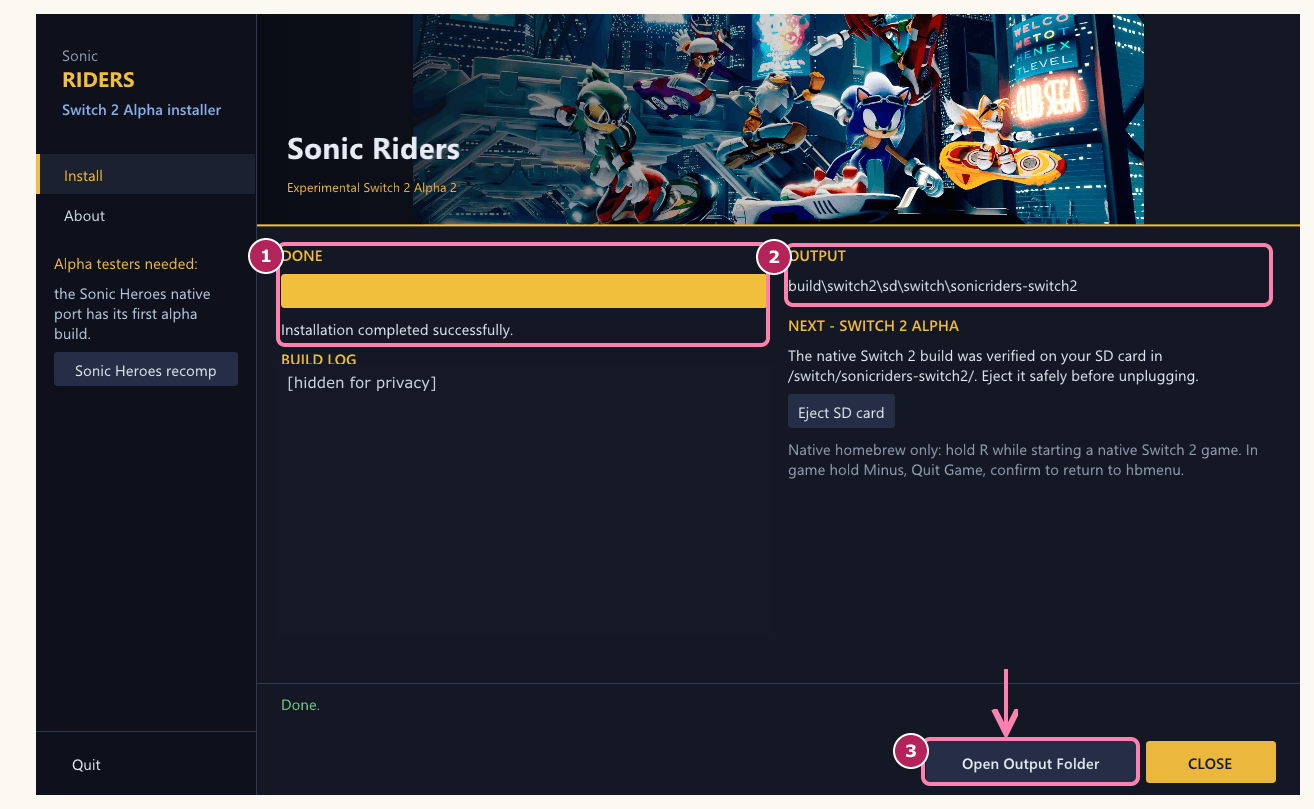
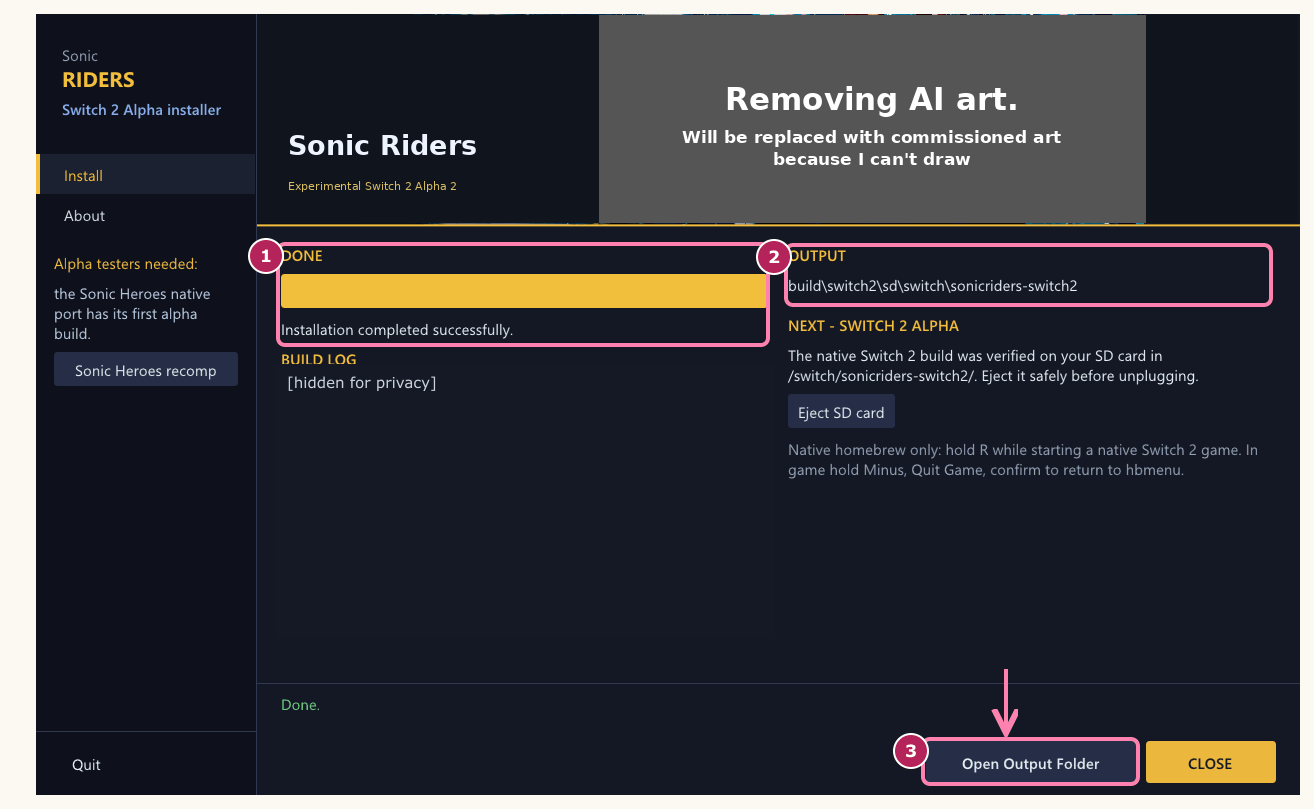
Replace generated artwork with commissioned-art placeholders

Changed region(s): [[0.2184, 0.0, 0.8737, 0.2781]]

diff --git a/riders-plus.html b/riders-plus.html
@@ -29,7 +29,7 @@
 <header class="topbar">
   <div class="topbar-in">
     <a class="brand" href="./" aria-label="Riders Plus home">
-      <img class="brand-logo" src="assets/img/logo-sm.webp" width="240" height="147" alt="Riders Plus">
+      <img class="brand-logo" src="assets/img/logo-sm.webp" width="240" height="147" alt="">
       <span class="brand-tag">Sonic Riders,<br>recompiled</span>
     </a>
     <nav class="nav" aria-label="Main">
@@ -55,7 +55,7 @@
 <div class="wrap">
   <figure class="reveal" style="margin:0"><img src="assets/img/riders-plus/banner.jpg" width="1600" height="900" fetchpriority="high"
     style="clip-path:polygon(0 0,100% 0,100% calc(100% - 34px),calc(100% - 34px) 100%,0 100%);box-shadow:0 0 0 1px rgba(255,210,63,.45)"
-    alt="Riders Plus: Break the limits. Sonic and Super Sonic on Extreme Gear in Metal City, with 999 rings and a Lv. 5 badge."></figure>
+    alt="Removing AI art. Will be replaced with commissioned art because I can't draw"></figure>
 </div>
 
 <section class="section">
@@ -143,7 +143,7 @@
   </div>
   <figure class="reveal" style="margin:22px 0 0"><img src="assets/img/riders-plus/super-sonic-banner.jpg" width="1983" height="793" loading="lazy"
     style="width:100%;height:auto;clip-path:polygon(0 0,100% 0,100% calc(100% - 34px),calc(100% - 34px) 100%,0 100%);box-shadow:0 0 0 1px rgba(255,210,63,.45)"
-    alt="Riders Plus: Super Sonic, supercharged. Super Sonic on a gold board racing through a night city, gold rings streaming behind him."></figure>
+    alt="Removing AI art. Will be replaced with commissioned art because I can't draw"></figure>
   <div class="two-col" style="margin-top:22px">
     <div class="panel reveal"><h3>New in v0.9.0</h3>
       <ul class="muted">
@@ -185,7 +185,7 @@
 <footer class="footer">
   <div class="footer-in">
     <div class="footer-brand">
-      <img class="footer-logo" src="assets/img/logo-sm.webp" width="240" height="147" alt="Riders Plus" loading="lazy">
+      <img class="footer-logo" src="assets/img/logo-sm.webp" width="240" height="147" alt="Removing AI art. Will be replaced with commissioned art because I can't draw" loading="lazy">
       <p class="muted">An unofficial fan project. Not affiliated with, endorsed or sponsored by SEGA or Nintendo.
         Sonic Riders is © SEGA. No game files are included or downloaded: you build the game from your own disc.</p>
     </div>

diff --git a/index.html b/index.html
@@ -29,7 +29,7 @@
 <header class="topbar">
   <div class="topbar-in">
     <a class="brand" href="./" aria-label="Riders Plus home">
-      <img class="brand-logo" src="assets/img/logo-sm.webp" width="240" height="147" alt="Riders Plus">
+      <img class="brand-logo" src="assets/img/logo-sm.webp" width="240" height="147" alt="">
       <span class="brand-tag">Sonic Riders,<br>recompiled</span>
     </a>
     <nav class="nav" aria-label="Main">
@@ -49,7 +49,7 @@
   <div class="hero-copy">
     <div class="speedlines" aria-hidden="true"><i></i><i></i><i></i><i></i></div>
     <img class="hero-logo" src="assets/img/logo.webp" width="880" height="539" fetchpriority="high"
-      alt="Riders Plus logo: RIDERS in yellow and PLUS in white, with Sonic's head and a golden swoosh.">
+      alt="Removing AI art. Will be replaced with commissioned art because I can't draw">
     <div class="hero-tags">
       <span class="chip chip-alpha">Now on Switch 2 · alpha</span>
       <span class="chip chip-stable">Stable <span data-latest="stable">v0.9.0</span></span>
@@ -184,7 +184,7 @@
 <section class="section" id="riders-plus">
   <div class="rp-teaser">
     <figure class="reveal" style="margin:0"><img class="banner" src="assets/img/riders-plus/banner.jpg" width="1600" height="900" loading="lazy"
-      alt="Riders Plus: Break the limits. Sonic and Super Sonic on Extreme Gear in Metal City, with 999 rings and a Lv. 5 badge."></figure>
+      alt="Removing AI art. Will be replaced with commissioned art because I can't draw"></figure>
     <div class="reveal">
       <div class="sec-head" style="margin-bottom:0">
         <span class="lap">04 <i>/</i> RIDERS PLUS RULES</span>
@@ -282,7 +282,7 @@
 <footer class="footer">
   <div class="footer-in">
     <div class="footer-brand">
-      <img class="footer-logo" src="assets/img/logo-sm.webp" width="240" height="147" alt="Riders Plus" loading="lazy">
+      <img class="footer-logo" src="assets/img/logo-sm.webp" width="240" height="147" alt="Removing AI art. Will be replaced with commissioned art because I can't draw" loading="lazy">
       <p class="muted">An unofficial fan project. Not affiliated with, endorsed or sponsored by SEGA or Nintendo.
         Sonic Riders is © SEGA. No game files are included or downloaded: you build the game from your own disc.</p>
     </div>

diff --git a/src/pages/riders-plus.html b/src/pages/riders-plus.html
@@ -9,7 +9,7 @@
 <div class="wrap">
   <figure class="reveal" style="margin:0"><img src="assets/img/riders-plus/banner.jpg" width="1600" height="900" fetchpriority="high"
     style="clip-path:polygon(0 0,100% 0,100% calc(100% - 34px),calc(100% - 34px) 100%,0 100%);box-shadow:0 0 0 1px rgba(255,210,63,.45)"
-    alt="Riders Plus: Break the limits. Sonic and Super Sonic on Extreme Gear in Metal City, with 999 rings and a Lv. 5 badge."></figure>
+    alt="Removing AI art. Will be replaced with commissioned art because I can't draw"></figure>
 </div>
 
 <section class="section">
@@ -97,7 +97,7 @@
   </div>
   <figure class="reveal" style="margin:22px 0 0"><img src="assets/img/riders-plus/super-sonic-banner.jpg" width="1983" height="793" loading="lazy"
     style="width:100%;height:auto;clip-path:polygon(0 0,100% 0,100% calc(100% - 34px),calc(100% - 34px) 100%,0 100%);box-shadow:0 0 0 1px rgba(255,210,63,.45)"
-    alt="Riders Plus: Super Sonic, supercharged. Super Sonic on a gold board racing through a night city, gold rings streaming behind him."></figure>
+    alt="Removing AI art. Will be replaced with commissioned art because I can't draw"></figure>
   <div class="two-col" style="margin-top:22px">
     <div class="panel reveal"><h3>New in v0.9.0</h3>
       <ul class="muted">

diff --git a/src/pages/index.html b/src/pages/index.html
@@ -3,7 +3,7 @@
   <div class="hero-copy">
     <div class="speedlines" aria-hidden="true"><i></i><i></i><i></i><i></i></div>
     <img class="hero-logo" src="assets/img/logo.webp" width="880" height="539" fetchpriority="high"
-      alt="Riders Plus logo: RIDERS in yellow and PLUS in white, with Sonic's head and a golden swoosh.">
+      alt="Removing AI art. Will be replaced with commissioned art because I can't draw">
     <div class="hero-tags">
       <span class="chip chip-alpha">Now on Switch 2 · alpha</span>
       <span class="chip chip-stable">Stable <span data-latest="stable">{{stable_tag}}</span></span>
@@ -73,7 +73,7 @@
 <section class="section" id="riders-plus">
   <div class="rp-teaser">
     <figure class="reveal" style="margin:0"><img class="banner" src="assets/img/riders-plus/banner.jpg" width="1600" height="900" loading="lazy"
-      alt="Riders Plus: Break the limits. Sonic and Super Sonic on Extreme Gear in Metal City, with 999 rings and a Lv. 5 badge."></figure>
+      alt="Removing AI art. Will be replaced with commissioned art because I can't draw"></figure>
     <div class="reveal">
       <div class="sec-head" style="margin-bottom:0">
         <span class="lap">04 <i>/</i> RIDERS PLUS RULES</span>

diff --git a/install-switch.html b/install-switch.html
@@ -29,7 +29,7 @@
 <header class="topbar">
   <div class="topbar-in">
     <a class="brand" href="./" aria-label="Riders Plus home">
-      <img class="brand-logo" src="assets/img/logo-sm.webp" width="240" height="147" alt="Riders Plus">
+      <img class="brand-logo" src="assets/img/logo-sm.webp" width="240" height="147" alt="">
       <span class="brand-tag">Sonic Riders,<br>recompiled</span>
     </a>
     <nav class="nav" aria-label="Main">
@@ -82,7 +82,7 @@ Cleaned log copies attached: …</pre><button class="btn btn-ghost copy-btn" typ
 <footer class="footer">
   <div class="footer-in">
     <div class="footer-brand">
-      <img class="footer-logo" src="assets/img/logo-sm.webp" width="240" height="147" alt="Riders Plus" loading="lazy">
+      <img class="footer-logo" src="assets/img/logo-sm.webp" width="240" height="147" alt="Removing AI art. Will be replaced with commissioned art because I can't draw" loading="lazy">
       <p class="muted">An unofficial fan project. Not affiliated with, endorsed or sponsored by SEGA or Nintendo.
         Sonic Riders is © SEGA. No game files are included or downloaded: you build the game from your own disc.</p>
     </div>

diff --git a/install-switch2.html b/install-switch2.html
@@ -29,7 +29,7 @@
 <header class="topbar">
   <div class="topbar-in">
     <a class="brand" href="./" aria-label="Riders Plus home">
-      <img class="brand-logo" src="assets/img/logo-sm.webp" width="240" height="147" alt="Riders Plus">
+      <img class="brand-logo" src="assets/img/logo-sm.webp" width="240" height="147" alt="">
       <span class="brand-tag">Sonic Riders,<br>recompiled</span>
     </a>
     <nav class="nav" aria-label="Main">
@@ -85,7 +85,7 @@ Cleaned log copies attached: …</pre><button class="btn btn-ghost copy-btn" typ
 <footer class="footer">
   <div class="footer-in">
     <div class="footer-brand">
-      <img class="footer-logo" src="assets/img/logo-sm.webp" width="240" height="147" alt="Riders Plus" loading="lazy">
+      <img class="footer-logo" src="assets/img/logo-sm.webp" width="240" height="147" alt="Removing AI art. Will be replaced with commissioned art because I can't draw" loading="lazy">
       <p class="muted">An unofficial fan project. Not affiliated with, endorsed or sponsored by SEGA or Nintendo.
         Sonic Riders is © SEGA. No game files are included or downloaded: you build the game from your own disc.</p>
     </div>

diff --git a/community.html b/community.html
@@ -29,7 +29,7 @@
 <header class="topbar">
   <div class="topbar-in">
     <a class="brand" href="./" aria-label="Riders Plus home">
-      <img class="brand-logo" src="assets/img/logo-sm.webp" width="240" height="147" alt="Riders Plus">
+      <img class="brand-logo" src="assets/img/logo-sm.webp" width="240" height="147" alt="">
       <span class="brand-tag">Sonic Riders,<br>recompiled</span>
     </a>
     <nav class="nav" aria-label="Main">
@@ -128,7 +128,7 @@
 <footer class="footer">
   <div class="footer-in">
     <div class="footer-brand">
-      <img class="footer-logo" src="assets/img/logo-sm.webp" width="240" height="147" alt="Riders Plus" loading="lazy">
+      <img class="footer-logo" src="assets/img/logo-sm.webp" width="240" height="147" alt="Removing AI art. Will be replaced with commissioned art because I can't draw" loading="lazy">
       <p class="muted">An unofficial fan project. Not affiliated with, endorsed or sponsored by SEGA or Nintendo.
         Sonic Riders is © SEGA. No game files are included or downloaded: you build the game from your own disc.</p>
     </div>

diff --git a/download.html b/download.html
@@ -29,7 +29,7 @@
 <header class="topbar">
   <div class="topbar-in">
     <a class="brand" href="./" aria-label="Riders Plus home">
-      <img class="brand-logo" src="assets/img/logo-sm.webp" width="240" height="147" alt="Riders Plus">
+      <img class="brand-logo" src="assets/img/logo-sm.webp" width="240" height="147" alt="">
       <span class="brand-tag">Sonic Riders,<br>recompiled</span>
     </a>
     <nav class="nav" aria-label="Main">
@@ -176,7 +176,7 @@
 <footer class="footer">
   <div class="footer-in">
     <div class="footer-brand">
-      <img class="footer-logo" src="assets/img/logo-sm.webp" width="240" height="147" alt="Riders Plus" loading="lazy">
+      <img class="footer-logo" src="assets/img/logo-sm.webp" width="240" height="147" alt="Removing AI art. Will be replaced with commissioned art because I can't draw" loading="lazy">
       <p class="muted">An unofficial fan project. Not affiliated with, endorsed or sponsored by SEGA or Nintendo.
         Sonic Riders is © SEGA. No game files are included or downloaded: you build the game from your own disc.</p>
     </div>

diff --git a/faq.html b/faq.html
@@ -29,7 +29,7 @@
 <header class="topbar">
   <div class="topbar-in">
     <a class="brand" href="./" aria-label="Riders Plus home">
-      <img class="brand-logo" src="assets/img/logo-sm.webp" width="240" height="147" alt="Riders Plus">
+      <img class="brand-logo" src="assets/img/logo-sm.webp" width="240" height="147" alt="">
       <span class="brand-tag">Sonic Riders,<br>recompiled</span>
     </a>
     <nav class="nav" aria-label="Main">
@@ -152,7 +152,7 @@
 <footer class="footer">
   <div class="footer-in">
     <div class="footer-brand">
-      <img class="footer-logo" src="assets/img/logo-sm.webp" width="240" height="147" alt="Riders Plus" loading="lazy">
+      <img class="footer-logo" src="assets/img/logo-sm.webp" width="240" height="147" alt="Removing AI art. Will be replaced with commissioned art because I can't draw" loading="lazy">
       <p class="muted">An unofficial fan project. Not affiliated with, endorsed or sponsored by SEGA or Nintendo.
         Sonic Riders is © SEGA. No game files are included or downloaded: you build the game from your own disc.</p>
     </div>

diff --git a/install.html b/install.html
@@ -29,7 +29,7 @@
 <header class="topbar">
   <div class="topbar-in">
     <a class="brand" href="./" aria-label="Riders Plus home">
-      <img class="brand-logo" src="assets/img/logo-sm.webp" width="240" height="147" alt="Riders Plus">
+      <img class="brand-logo" src="assets/img/logo-sm.webp" width="240" height="147" alt="">
       <span class="brand-tag">Sonic Riders,<br>recompiled</span>
     </a>
     <nav class="nav" aria-label="Main">
@@ -264,7 +264,7 @@
 <footer class="footer">
   <div class="footer-in">
     <div class="footer-brand">
-      <img class="footer-logo" src="assets/img/logo-sm.webp" width="240" height="147" alt="Riders Plus" loading="lazy">
+      <img class="footer-logo" src="assets/img/logo-sm.webp" width="240" height="147" alt="Removing AI art. Will be replaced with commissioned art because I can't draw" loading="lazy">
       <p class="muted">An unofficial fan project. Not affiliated with, endorsed or sponsored by SEGA or Nintendo.
         Sonic Riders is © SEGA. No game files are included or downloaded: you build the game from your own disc.</p>
     </div>

diff --git a/online.html b/online.html
@@ -29,7 +29,7 @@
 <header class="topbar">
   <div class="topbar-in">
     <a class="brand" href="./" aria-label="Riders Plus home">
-      <img class="brand-logo" src="assets/img/logo-sm.webp" width="240" height="147" alt="Riders Plus">
+      <img class="brand-logo" src="assets/img/logo-sm.webp" width="240" height="147" alt="">
       <span class="brand-tag">Sonic Riders,<br>recompiled</span>
     </a>
     <nav class="nav" aria-label="Main">
@@ -116,7 +116,7 @@
 <footer class="footer">
   <div class="footer-in">
     <div class="footer-brand">
-      <img class="footer-logo" src="assets/img/logo-sm.webp" width="240" height="147" alt="Riders Plus" loading="lazy">
+      <img class="footer-logo" src="assets/img/logo-sm.webp" width="240" height="147" alt="Removing AI art. Will be replaced with commissioned art because I can't draw" loading="lazy">
       <p class="muted">An unofficial fan project. Not affiliated with, endorsed or sponsored by SEGA or Nintendo.
         Sonic Riders is © SEGA. No game files are included or downloaded: you build the game from your own disc.</p>
     </div>

diff --git a/race-room.html b/race-room.html
@@ -29,7 +29,7 @@
 <header class="topbar">
   <div class="topbar-in">
     <a class="brand" href="./" aria-label="Riders Plus home">
-      <img class="brand-logo" src="assets/img/logo-sm.webp" width="240" height="147" alt="Riders Plus">
+      <img class="brand-logo" src="assets/img/logo-sm.webp" width="240" height="147" alt="">
       <span class="brand-tag">Sonic Riders,<br>recompiled</span>
     </a>
     <nav class="nav" aria-label="Main">
@@ -136,7 +136,7 @@
 <footer class="footer">
   <div class="footer-in">
     <div class="footer-brand">
-      <img class="footer-logo" src="assets/img/logo-sm.webp" width="240" height="147" alt="Riders Plus" loading="lazy">
+      <img class="footer-logo" src="assets/img/logo-sm.webp" width="240" height="147" alt="Removing AI art. Will be replaced with commissioned art because I can't draw" loading="lazy">
       <p class="muted">An unofficial fan project. Not affiliated with, endorsed or sponsored by SEGA or Nintendo.
         Sonic Riders is © SEGA. No game files are included or downloaded: you build the game from your own disc.</p>
     </div>
